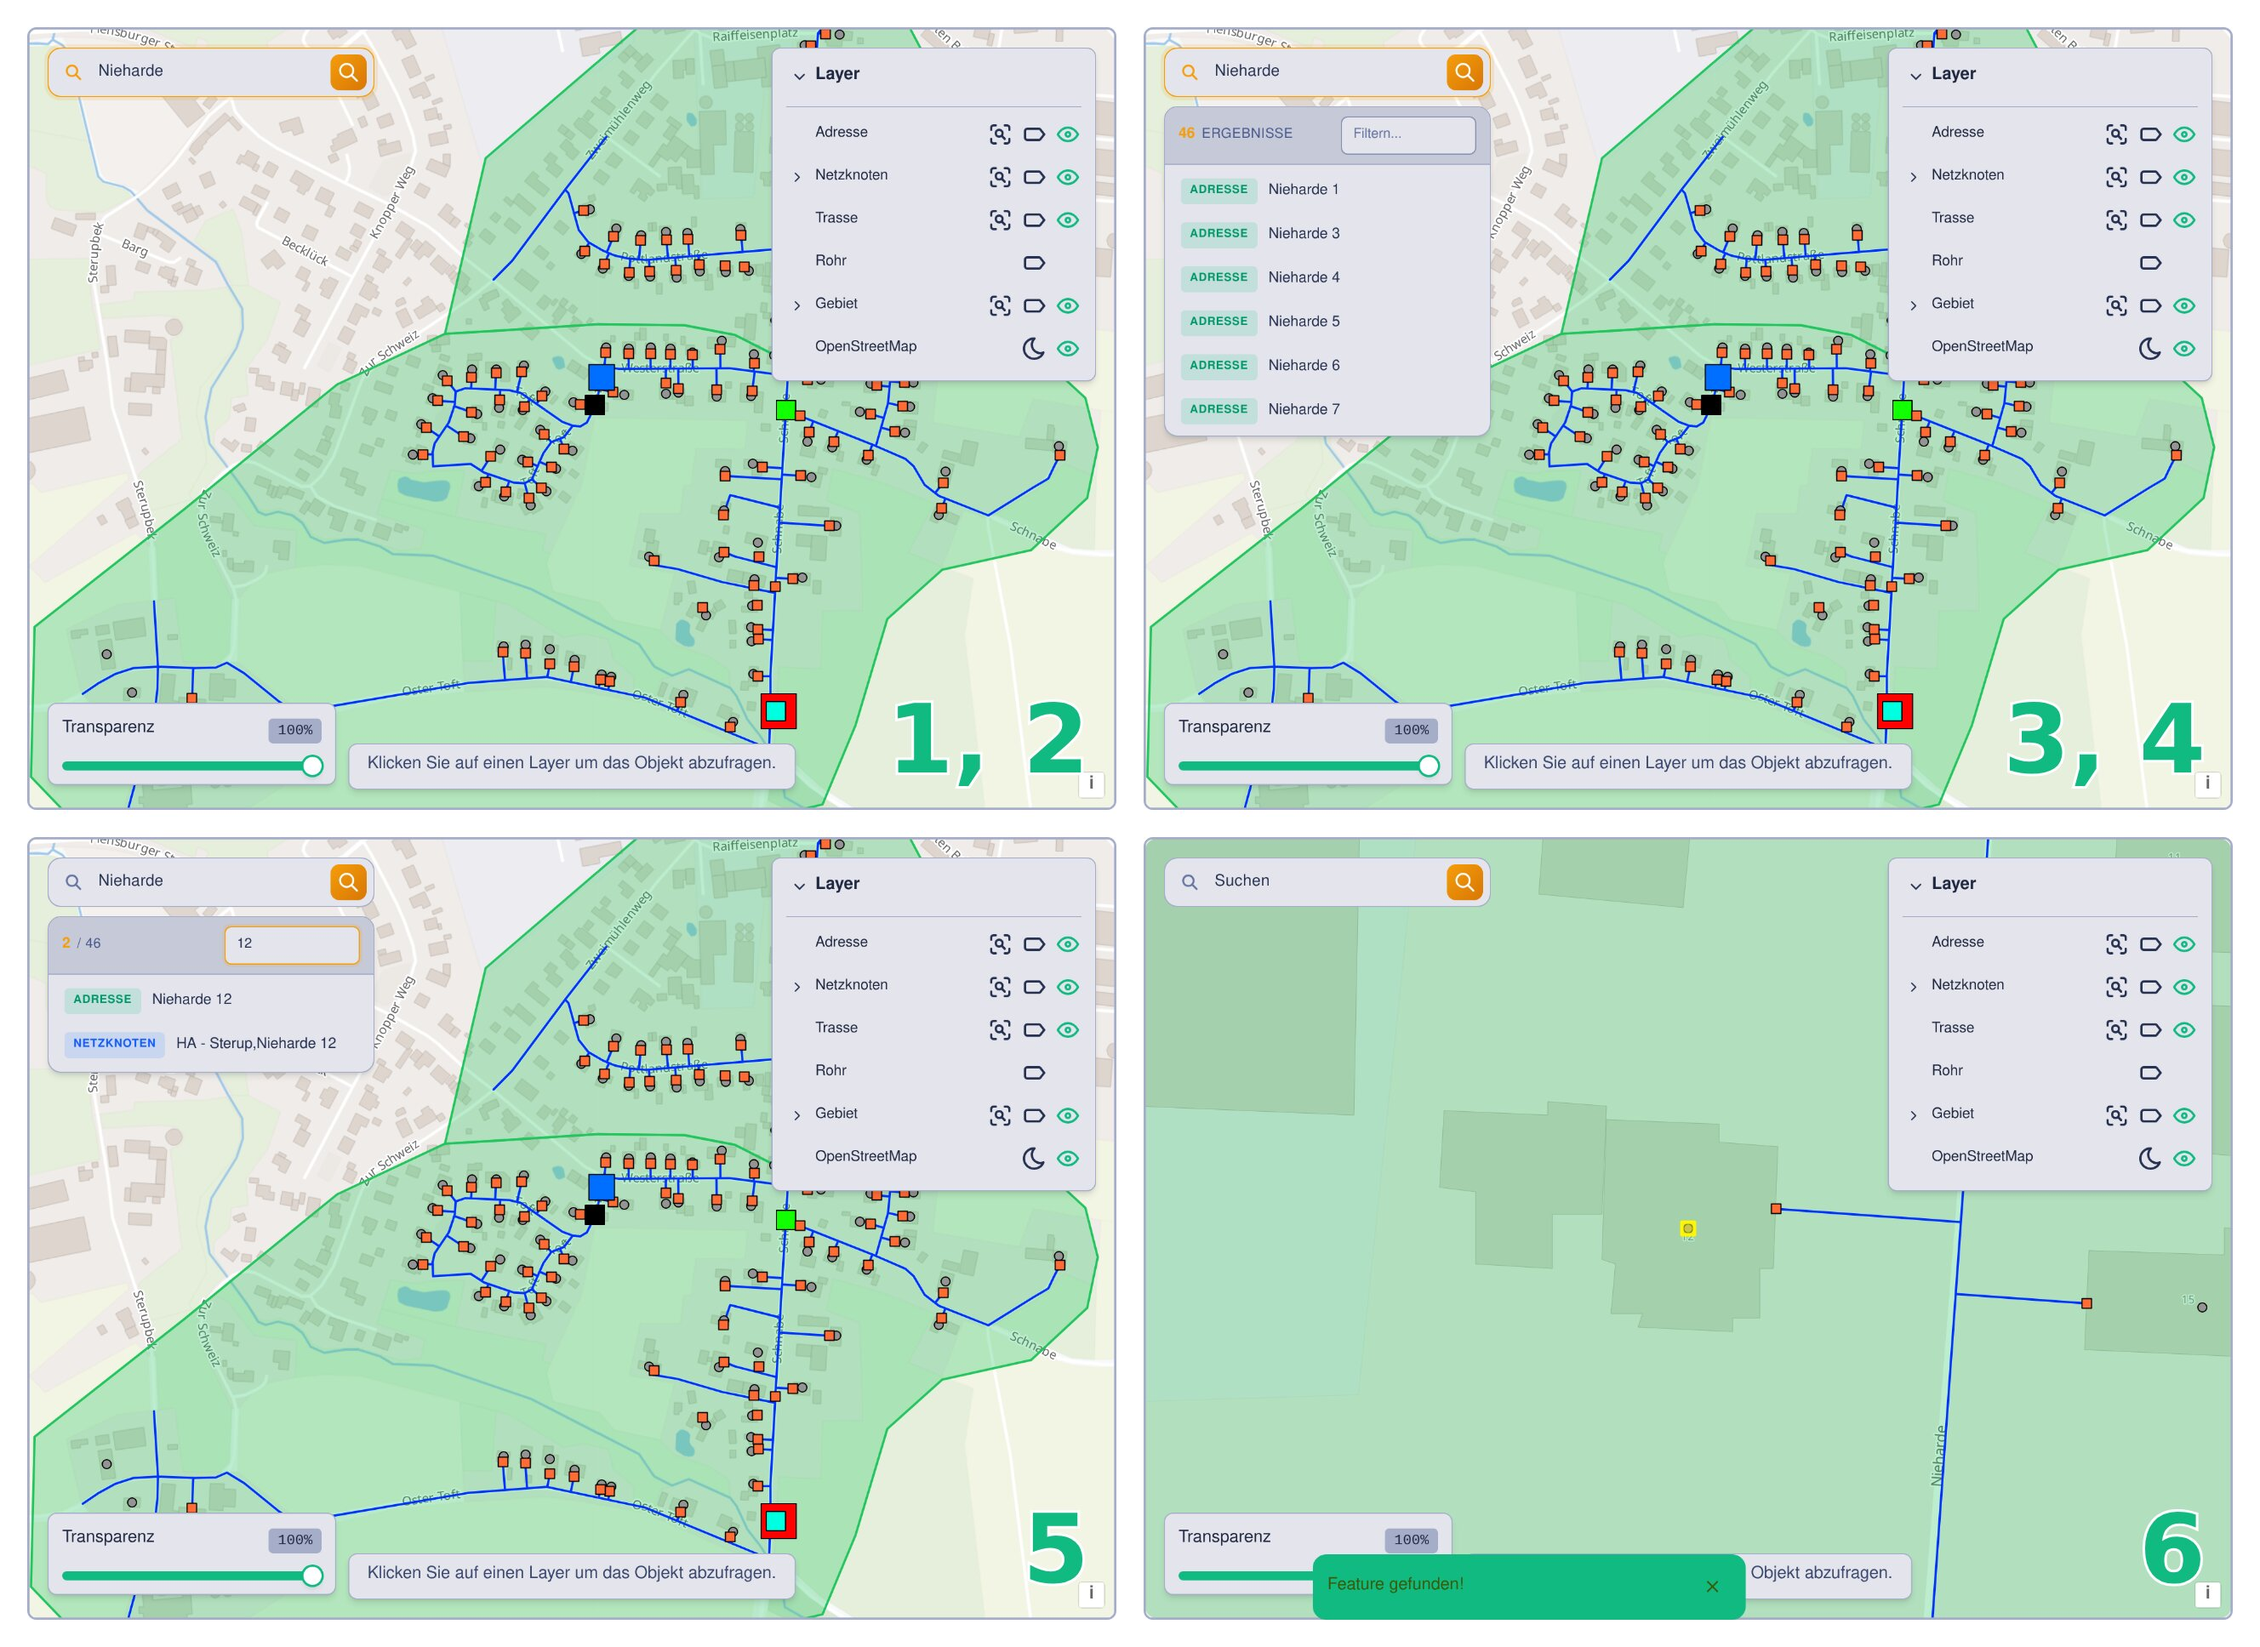
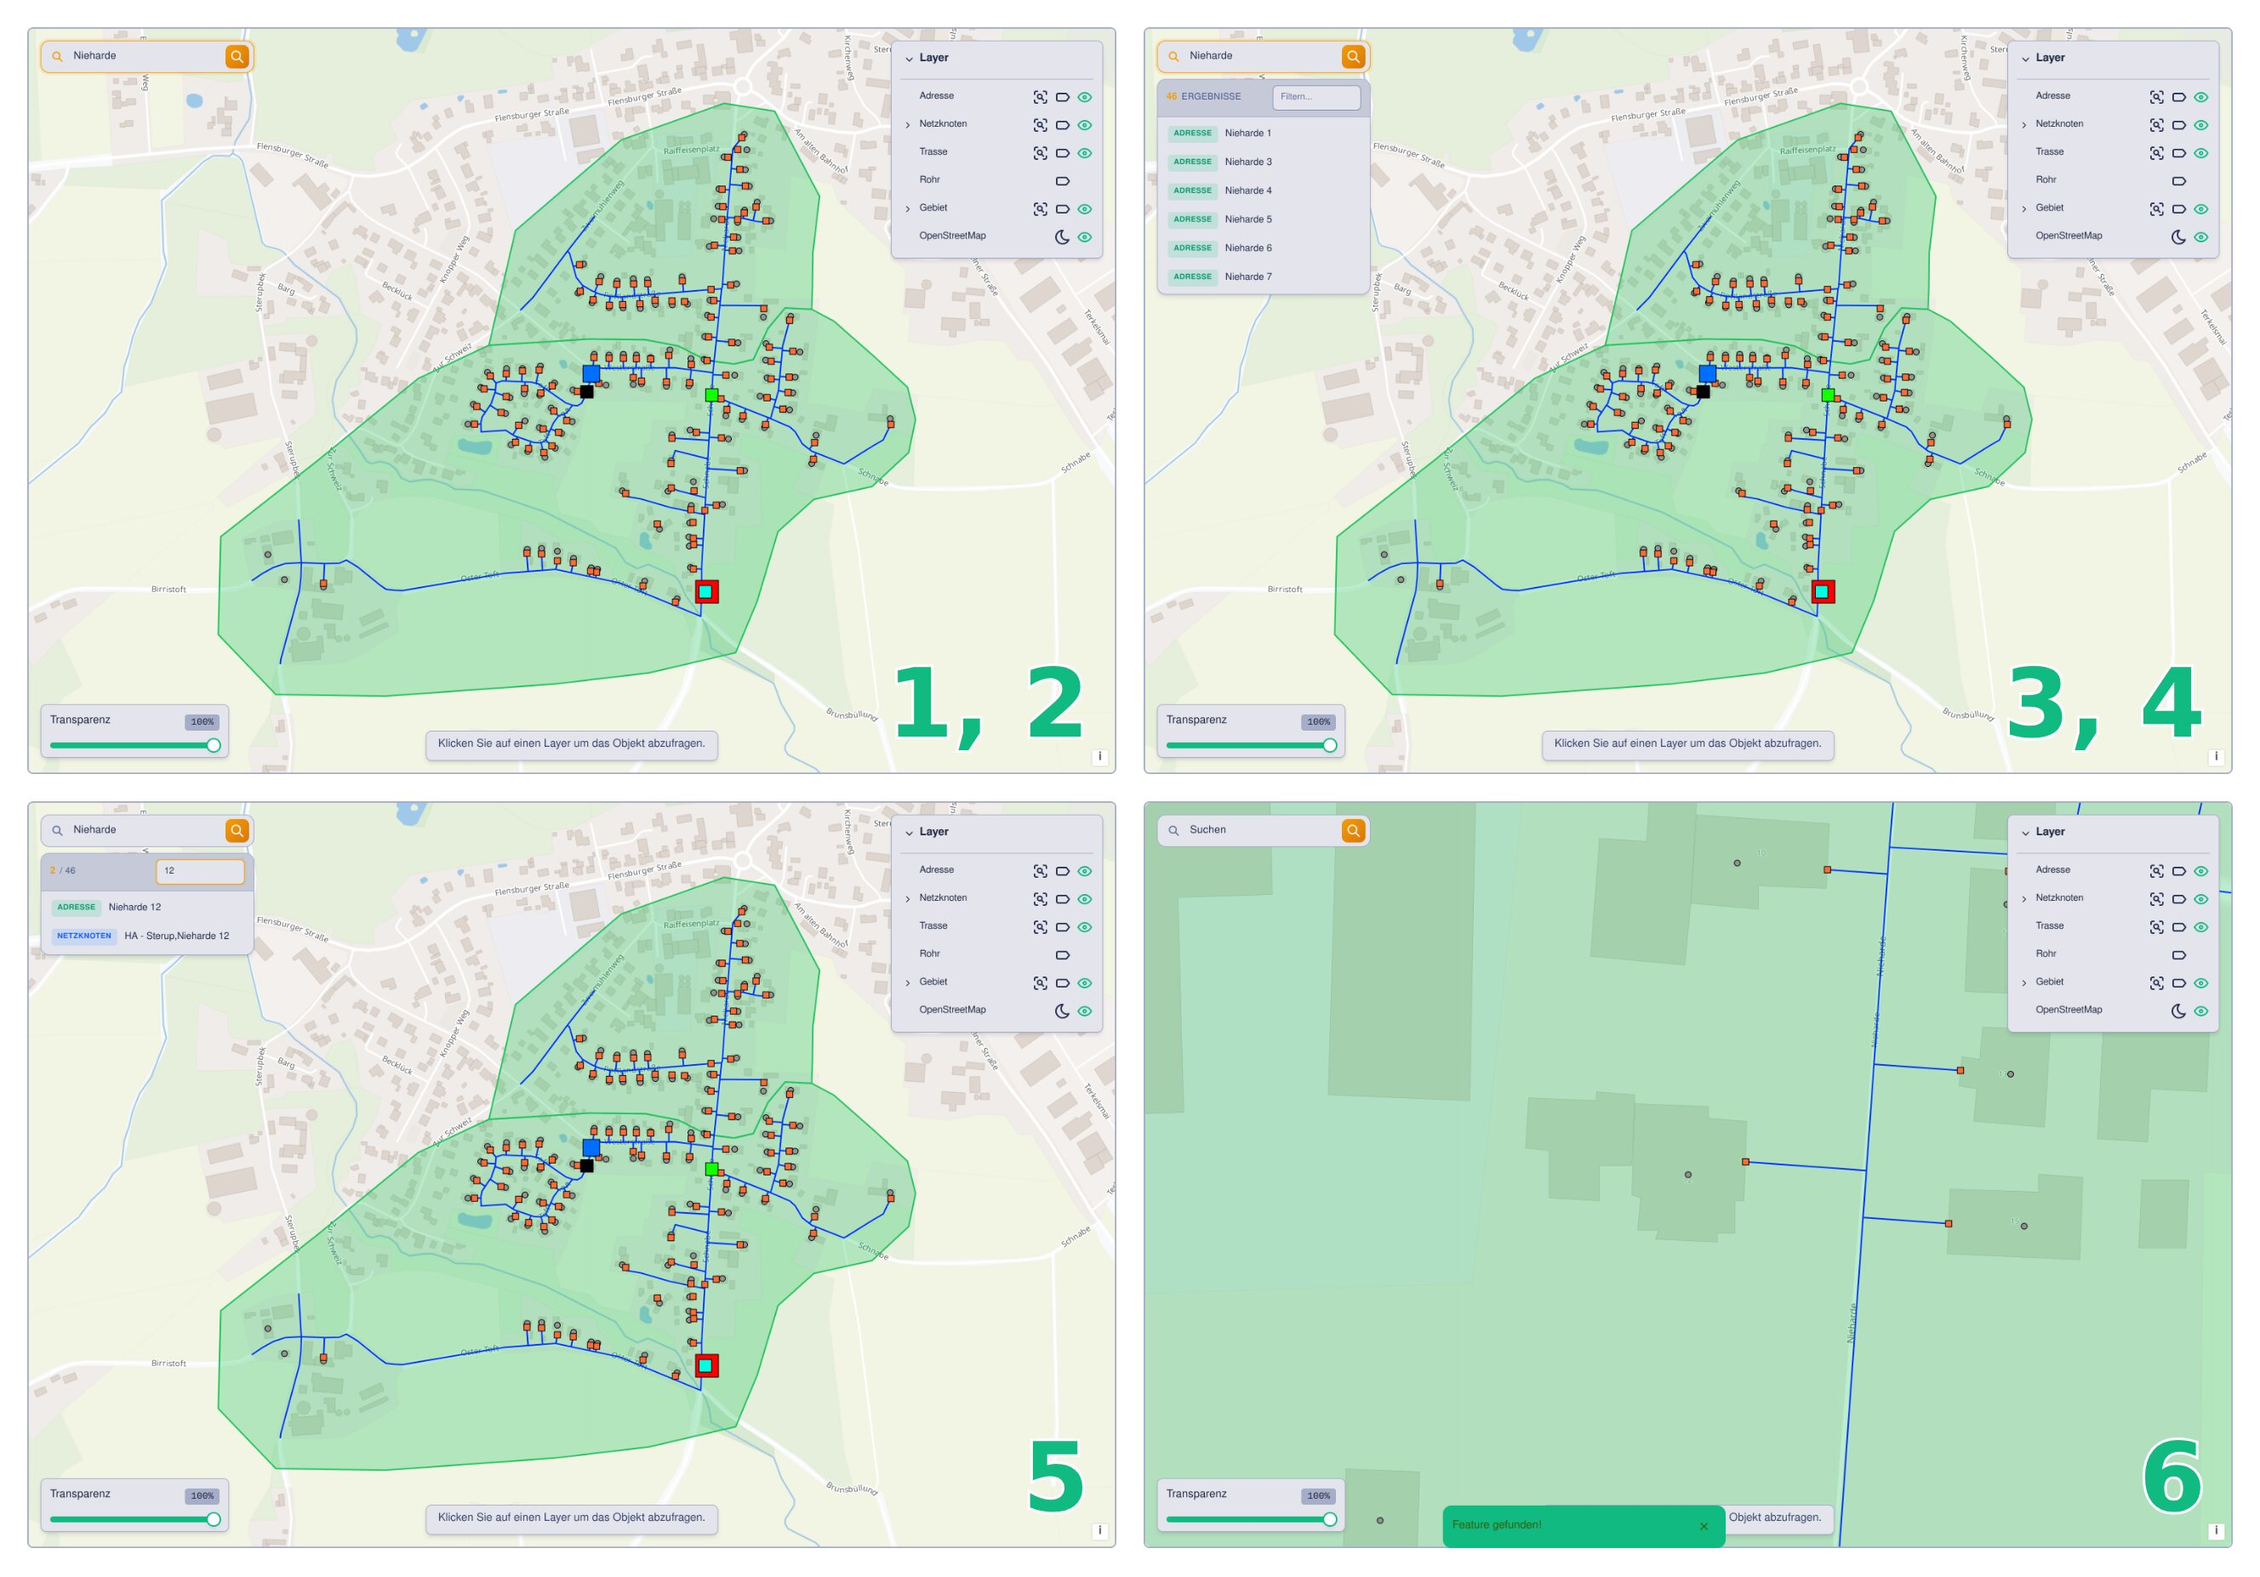
increase viewport size to match whole menu

diff --git a/playwright.config.ts b/playwright.config.ts
@@ -3,8 +3,8 @@
 // scripts/setup-local-qonnectra.sh) – es gibt bewusst keine Möglichkeit,
 // eine andere Adresse zu konfigurieren.
 //
-// Kontextwerte entsprechen den Zielwerten aus CLAUDE.md: 1280 × 800 bei
-// deviceScaleFactor 2 (= Bilder mit 2560 × 1600), Hellmodus, Sprache DE.
+// Kontextwerte entsprechen den Zielwerten aus CLAUDE.md: 1792 × 1120 bei
+// deviceScaleFactor 2 (= Bilder mit 3584 × 2240), Hellmodus, Sprache DE.
 import { defineConfig } from '@playwright/test'
 
 import { localAppUrl } from './playwright/local-app'
@@ -41,7 +41,13 @@ export default defineConfig({
     // (scripts/install-local-ca.sh ist optional).
     ignoreHTTPSErrors: true,
 
-    viewport: { width: 1280, height: 800 },
+    // 1120 px Höhe, weil die Navigationsleiste mit allen aufgeklappten Gruppen
+    // 1093 px braucht (gemessen) – bei 800 px lag die Gruppe „System“ unter dem
+    // sichtbaren Bereich und musste für Bilder erst herangescrollt werden. Die
+    // Breite hält das Seitenverhältnis bei 16 : 10, wie bei allen bestehenden
+    // Handbuchbildern und beim 16-:-10-Rahmen der Bildpaare (`.img-row` in
+    // .vitepress/theme/custom.css).
+    viewport: { width: 1792, height: 1120 },
     deviceScaleFactor: 2,
 
     locale: 'de-DE',

diff --git a/playwright/manual-shots.ts b/playwright/manual-shots.ts
@@ -52,7 +52,7 @@ export async function animationenAus(page: Page): Promise<void> {
  */
 export async function zeigerWeg(page: Page): Promise<void> {
   const size = page.viewportSize()
-  await page.mouse.move(size ? size.width - 1 : 1279, size ? size.height - 1 : 799)
+  await page.mouse.move(size ? size.width - 1 : 1791, size ? size.height - 1 : 1119)
 }
 
 export interface SpotlightOptions {

diff --git a/CLAUDE.md b/CLAUDE.md
@@ -91,9 +91,9 @@ exakt; im Zweifel `manual/teil-a-anwenderhandbuch/05-karte.md` und
 
 | | Wert |
 |---|---|
-| Viewport | 1280 × 800, `deviceScaleFactor: 2` → Bild **2560 × 1600** |
+| Viewport | 1792 × 1120, `deviceScaleFactor: 2` → Bild **3584 × 2240** |
 | Bildformat | `.jpg`, Qualität ~85, Zieldateigröße < 1,2 MB |
-| Videoformat | `.webm`, ca. 1280 × 800 |
+| Videoformat | `.webm`, ca. 1792 × 1120 |
 | Modus | immer Hellmodus, Sprache **DE** |
 | Inhalt | nur der App-Viewport, kein Browser-Chrome, kein Mauszeiger |
 | Daten | ausschließlich das Demoprojekt „Testprojekt“ – keine echten personenbezogenen Daten |
@@ -243,11 +243,11 @@ wird nicht mehr gelesen.
   Element selbst scheitert hier zweifach: der Schleier wird am nächsten
   Vorfahren mit `overflow: hidden` abgeschnitten, und macht man die Vorfahren
   durchlässig, verliert die Karte (OpenLayers) beim Reflow ihren Canvas-Inhalt.
-- Composite-Raster sind montiert und deshalb **nicht** 2560 × 1600, sondern
-  2656 × 1936 (zwei Kacheln plus Fugen). Das Seitenverhältnis der Montage
-  ergibt sich aus dem Kartenausschnitt und lässt sich nicht auf beide Zielmaße
-  gleichzeitig bringen; im Handbuch werden die Bilder ohnehin auf 512 px
-  gerendert.
+- Composite-Raster sind montiert und deshalb **nicht** 3584 × 2240, sondern
+  2656 px breit bei einer Höhe, die sich aus dem Kartenausschnitt der Kacheln
+  ergibt (zuletzt 2656 × 1854). Das Seitenverhältnis der Montage lässt sich
+  nicht auf beide Zielmaße gleichzeitig bringen; im Handbuch werden die Bilder
+  ohnehin auf 512 px gerendert.
 - Die Kartenkacheln erzeugt `scripts/setup-local-qonnectra.sh` einmalig per
   Planetiler (Region `schleswig-holstein`, dort liegt das Testprojekt) und legt
   sie unter `~/.local/share/qonnectra-local-tiles/` ab – außerhalb von
@@ -284,13 +284,14 @@ wird nicht mehr gelesen.
   nicht (es ist kein Kachel-Rennen) – für einen deterministischen Treffer den
   Layer „Gebiet" vor dem Klick ausblenden. Wieder einschalten geht danach nicht,
   weil die geöffnete Info-Box die Legende verdeckt.
-- Die Navigationsleiste ist bei 1280 × 800 höher als das Fenster (gemessen:
-  1093 px Inhalt): mit allen aufgeklappten Gruppen liegt die Gruppe „System"
-  („Logs", „Einstellungen") unter dem sichtbaren Bereich. Scroll-Container ist
-  das Raster der Leiste, greifbar über
-  `div[class*="grid-rows-[auto_1fr_auto]"]` (`SideBar.svelte`) – für Bilder des
-  Leistenfußes dort `scrollTop = scrollHeight` setzen und **nicht** Gruppen
-  einklappen; das wäre ein Zustand, den Nutzende erst selbst herstellen müssen.
+- Die Fensterhöhe von 1120 px ist an der Navigationsleiste bemessen: mit allen
+  aufgeklappten Gruppen braucht sie 1093 px Inhalt (gemessen), bei den früheren
+  800 px lag die Gruppe „System" unter dem sichtbaren Bereich und musste erst
+  herangescrollt werden. Wächst die Leiste über 1120 px hinaus, den Viewport in
+  `playwright.config.ts` erhöhen und **nicht** Gruppen einklappen; das wäre ein
+  Zustand, den Nutzende erst selbst herstellen müssen. Scroll-Container der
+  Leiste ist ihr Raster, greifbar über
+  `div[class*="grid-rows-[auto_1fr_auto]"]` (`SideBar.svelte`).
 
 **Die App (Kontext für Selektoren und Routen)**
 

diff --git a/.claude/agents/screenshot-automat.md b/.claude/agents/screenshot-automat.md
@@ -30,17 +30,18 @@ damit sie nach App-Änderungen reproduzierbar wiederholbar ist.
 
 | | Wert |
 |---|---|
-| Viewport | 1280 × 800 mit `deviceScaleFactor: 2` → Bild **2560 × 1600** |
+| Viewport | 1792 × 1120 mit `deviceScaleFactor: 2` → Bild **3584 × 2240** |
 | Bildformat im Repo | `.jpg`, Qualität ~85, < 1,2 MB |
-| Video | `.webm`, ca. 1280 × 800, ohne Ton |
+| Video | `.webm`, ca. 1792 × 1120, ohne Ton |
 | Modus | Hellmodus, Sprache DE |
 | Inhalt | nur App-Viewport, kein Browser-Chrome, kein Mauszeiger im Bild |
 | Daten | ausschließlich Projekt „Testprojekt“ |
 
-`playwright.config.ts` steht derzeit auf 1920 × 1080 @1x. Das passt nicht zu den
-bestehenden Handbuchbildern – gleiche es an bzw. setze die Werte pro Test über
-einen eigenen Context, und weise in deinem Bericht darauf hin, wenn du die
-globale Config änderst.
+`playwright.config.ts` setzt diese Werte zentral; setze sie nicht pro Spec neu.
+Die 1120 px Höhe hängen an der Navigationsleiste: mit allen aufgeklappten
+Gruppen braucht sie 1093 px. Bilder, die noch mit 1280 × 800 entstanden sind,
+liegen als 2560 × 1600 in `public/images/` – sie werden beim nächsten Lauf ihres
+Kapitels ersetzt.
 
 ## Specs schreiben
 

diff --git a/.claude/agents/handbuch-review.md b/.claude/agents/handbuch-review.md
@@ -48,8 +48,11 @@ du das explizit genannte Kapitel.
 - Bild steht nach dem erklärenden Absatz, nicht davor.
 - Bildpaare: zwei `![]()`-Zeilen direkt untereinander, danach eigene Zeile
   `{.img-row}`.
-- Bildformat `.jpg`, Videos `.webm`; Abmessungen 2560 × 1600 (`file <bild>`),
-  Dateigröße < 1,2 MB. Abweichungen melden.
+- Bildformat `.jpg`, Videos `.webm`; Abmessungen 3584 × 2240 (`file <bild>`),
+  Dateigröße < 1,2 MB. Abweichungen melden – außer bei Composite-Rastern
+  (montiert, 2656 px breit) und bei Altbildern aus der Zeit des kleineren
+  Viewports (2560 × 1600); die werden beim nächsten Lauf ihres Kapitel-Specs
+  ersetzt.
 - Dateinamen englisch, `snake_case`, mit passendem Bereichspräfix.
 
 **Querverweise und Rechtschreibung**
